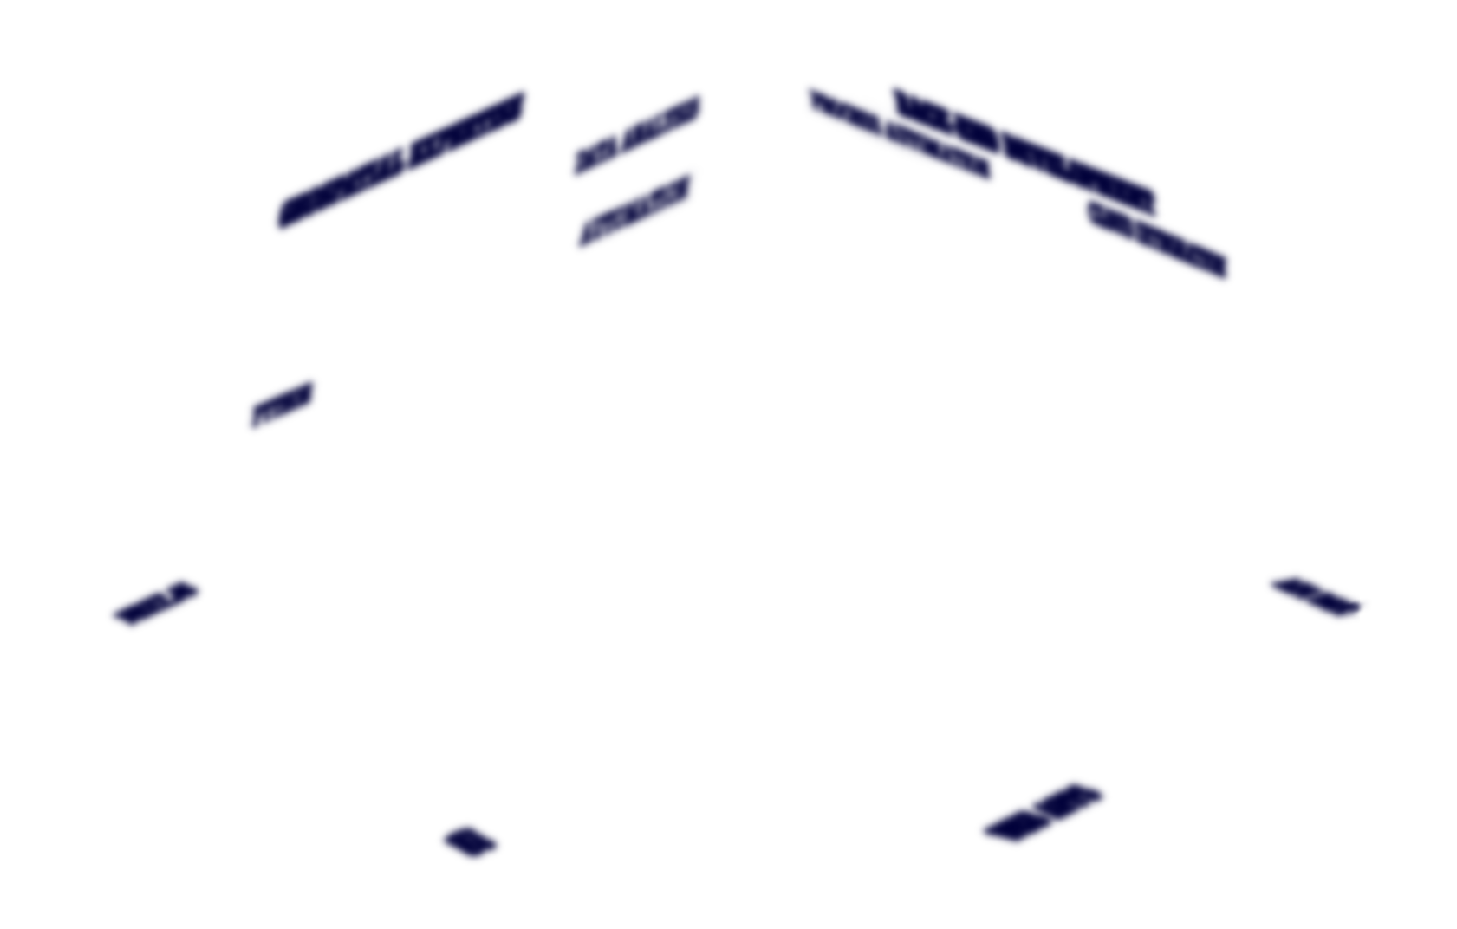
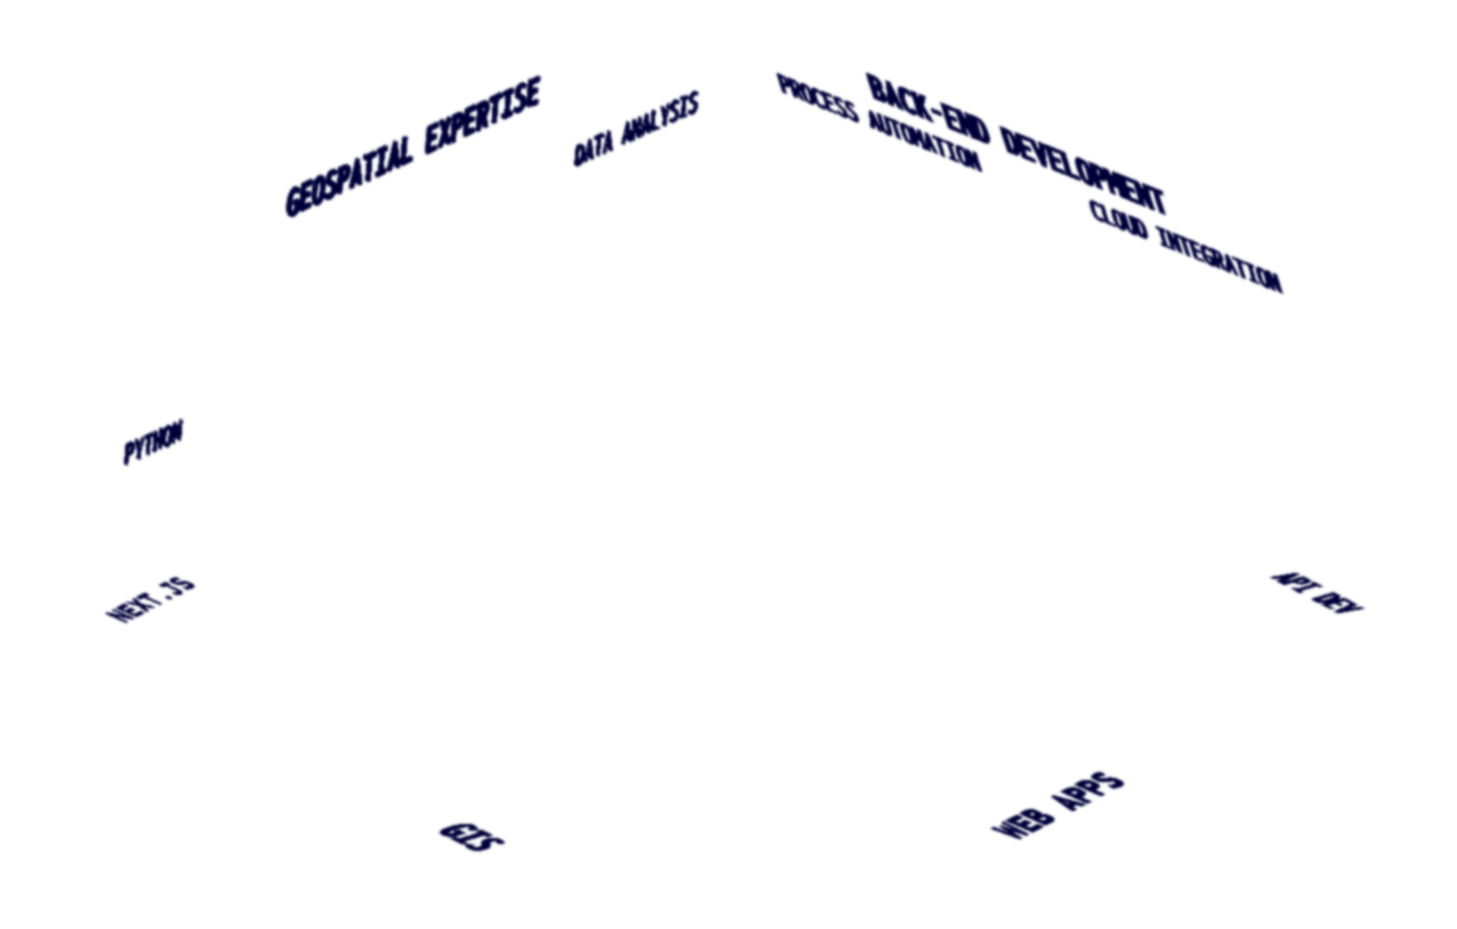
landing page adjustment tryouts #10

diff --git a/src/app/page.tsx b/src/app/page.tsx
@@ -18,15 +18,14 @@ export default function RootPage() {
       {/* Parallax Image */}
       <div className="row-span-1">
         <ParallaxImage
-          height="90%"
+          height="100%"
           nonce={nonce ?? undefined}
-          width="90%"
-          marginTopClass="mt-12"
+          width="100%"
         />
       </div>
 
       {/* Hero Title and Subtitle */}
-      <div className="flex flex-col-reverse items-center justify-center p-2 border-2 border-lime-500">
+      <div className="flex flex-col-reverse items-center justify-center pb-2 border-2 border-lime-500">
         <div className="text-center w-full max-w-full overflow-hidden">
           <h2
             className="text-3xl sm:text-4xl md:text-5xl lg:text-6xl font-bold text-foreground mx-auto border-2"
@@ -35,11 +34,11 @@ export default function RootPage() {
           </h2>
         </div>
 
-        <div className="text-center w-full mt-2 max-w-full overflow-hidden">
+        {/* <div className="text-center w-full max-w-full overflow-hidden">
           <h3 className="text-purple-800 dark:text-purple-300 border-2">
             {t("hero.subtitle")}
           </h3>
-        </div>
+        </div> */}
       </div>
     </div>
   );

diff --git a/src/components/ui/ParallaxImage.tsx b/src/components/ui/ParallaxImage.tsx
@@ -95,7 +95,13 @@ export default function ParallaxImage({
       lightImage: "shadows-texts-light.png",
       blur: "0.2px",
     },
-    { depth: 10, zIndex: 30, image: "layer-texts.png", blur: "0.0px" },
+    {
+      depth: 10,
+      zIndex: 30,
+      darkImage: "layer-texts-dark.png",
+      lightImage: "layer-texts-light.png",
+      blur: "0.0px",
+    },
   ];
 
   const renderLayers = (theme: "dark" | "light") => {
@@ -134,8 +140,7 @@ export default function ParallaxImage({
   return (
     <div
       className={`relative z-30 mx-auto ${marginTopClass} border-2 border-teal-500`}
-      style={{ width, height }}
-    >
+      style={{ width, height }}>
       {theme === "dark" ? renderLayers("dark") : renderLayers("light")}
     </div>
   );

diff --git a/src/app/pricing/layout.tsx b/src/app/pricing/layout.tsx
@@ -4,10 +4,10 @@ export default function PricingLayout({
   children: React.ReactNode;
 }) {
   return (
-    <section className="flex flex-col items-center justify-center gap-4 py-8 md:py-10">
-      <div className="inline-block text-center justify-center px-16 sm:px-20 md:px-32 pt-10">
+    <div className="flex flex-col items-center justify-center gap-4 w-full">
+      <div className="inline-block text-center justify-center px-16 sm:px-20 md:px-32 pt-10 md:pt-20">
         {children}
       </div>
-    </section>
+    </div>
   );
 }

diff --git a/src/app/contact/layout.tsx b/src/app/contact/layout.tsx
@@ -4,8 +4,8 @@ export default function ContactLayout({
   children: React.ReactNode;
 }) {
   return (
-    <section className="flex flex-col items-center justify-center gap-4 py-8 md:py-10">
-      <div className="inline-block text-center justify-center px-10 pt-10">
+    <section className="flex flex-col items-center justify-center gap-4 w-full">
+      <div className="inline-block text-center justify-center px-10 pt-10 md:pt-20">
         {children}
       </div>
     </section>

diff --git a/src/app/resume/layout.tsx b/src/app/resume/layout.tsx
@@ -5,7 +5,7 @@ export default function ResumeLayout({
 }) {
   return (
     <div className="flex flex-col items-center justify-center w-full">
-      <div className="inline-block text-center justify-center w-full pt-20">
+      <div className="inline-block text-center justify-center w-full pt-10 md:pt-20">
         {children}
       </div>
     </div>
